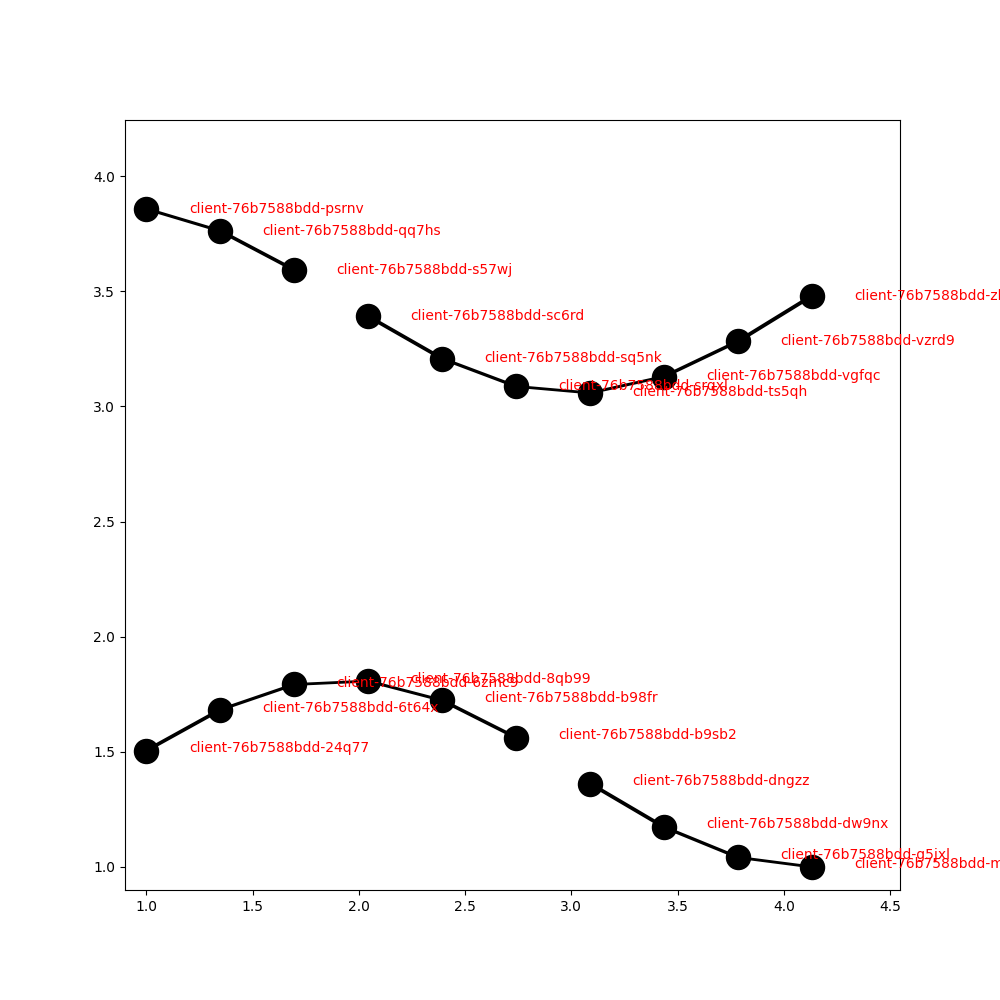
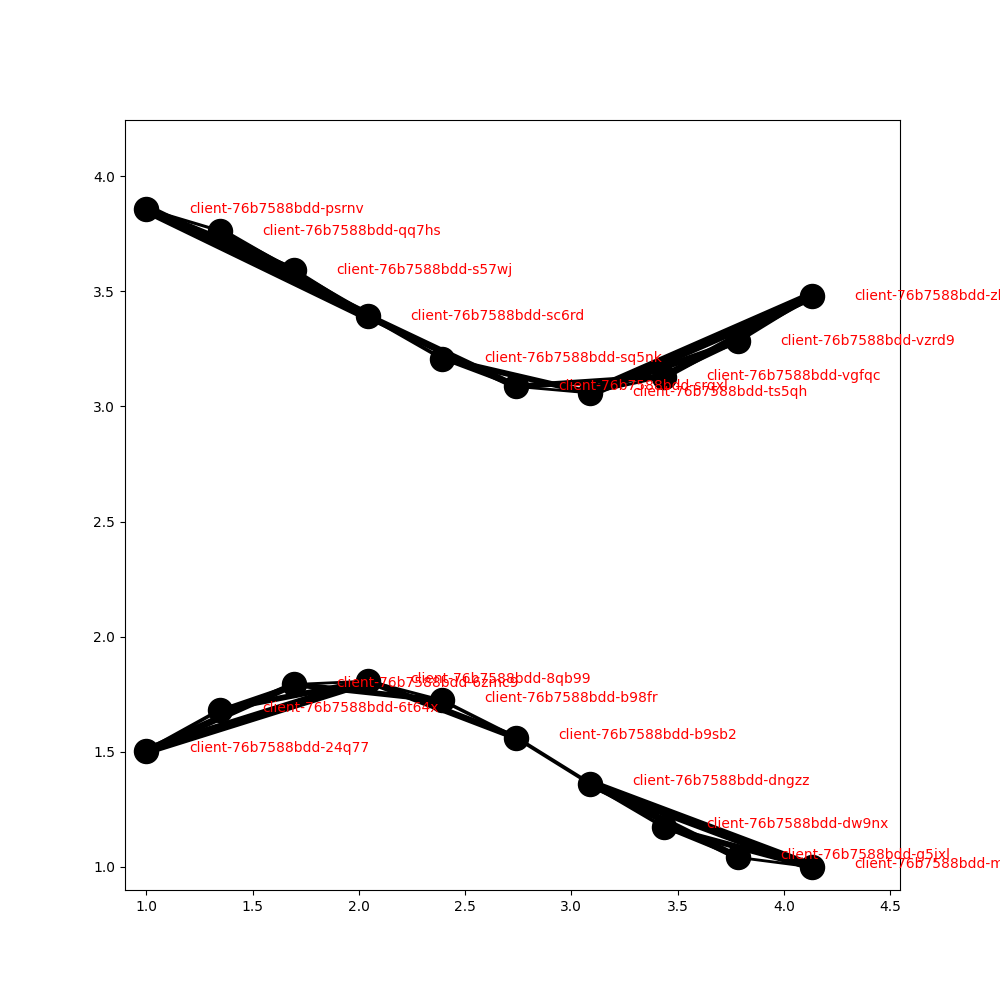
work around, fixing validation graph

diff --git a/fed_relax.py b/fed_relax.py
@@ -145,7 +145,7 @@ def get_pods_attributes(label_selector="app=fedrelax-client", namespace="fed-rel
 
     return attributes
 
-def add_edges_k8s(pod_info,namespace="fed-relax", nrneighbors=1, pos='coords', refdistance=1):
+def add_edges_k8s(pod_info,namespace="fed-relax", nrneighbors=3, pos='coords', refdistance=1):
     """
     Add edges to the graph based on pod attributes retrieved from Kubernetes config maps
     using k-nearest neighbors approach.
@@ -293,13 +293,6 @@ visualize_and_save_graph(G, '/app/init_graph.png')
 # Add edges based on the pod coordinates
 updated_graph = add_edges_k8s(pod_info)
 print("Update graph", updated_graph.nodes())
-# i = 'client-f44c98887-jw7wx'
-# for iter_node in G.nodes(): 
-#    print(G.nodes[iter_node])
-# print("Attributes of graphs after update")
-# print((np.array(updated_graph.nodes[i]["Xtrain"])).shape)
-# print((np.array(updated_graph.nodes[i]["ytrain"])).shape)
-# print((np.array(updated_graph.nodes[i]["coords"])).shape)
 
 # Call the visualization function after adding edges
 visualize_and_save_graph(updated_graph, '/app/after_graph.png')
@@ -346,15 +339,14 @@ pod_to_int = {}
 for i, pod in enumerate(pod_info):
     pod_to_int[i] = pod
 X_val = final_graph.nodes[pod_to_int[0]]["Xval"]
-y_1 = final_graph.nodes[pod_to_int[1]]["model"].predict(X_val)
-y_2 = final_graph.nodes[pod_to_int[2]]["model"].predict(X_val)
+y_1 = final_graph.nodes[pod_to_int[11]]["model"].predict(X_val)
+y_2 = final_graph.nodes[pod_to_int[5]]["model"].predict(X_val)
 
 # Plot the results
-# TODO: Current phase is for testing purposes only, need to update this later
 plt.figure()
 plt.plot(X_val, y_1, color="orange", label="validation data cluster 0", linewidth=2)
 plt.plot(X_val, y_2, color="green", label="validation data cluster 0", linewidth=2)
-plt.plot(final_graph.nodes[pod_to_int[1]]["Xval"], final_graph.nodes[pod_to_int[0]]["yval"], color="blue", label="validation data cluster 0", linewidth=2)
-plt.plot(final_graph.nodes[pod_to_int[2]]["Xval"], final_graph.nodes[pod_to_int[1]]["yval"], color="red", label="val data second cluster", linewidth=2)
+plt.plot(final_graph.nodes[pod_to_int[7]]["Xval"], final_graph.nodes[pod_to_int[0]]["yval"], color="blue", label="validation data cluster 0", linewidth=2)
+plt.plot(final_graph.nodes[pod_to_int[15]]["Xval"], final_graph.nodes[pod_to_int[11]]["yval"], color="red", label="val data second cluster", linewidth=2)
 plt.savefig('/app/validation.png')  # Save the image to a file
 print(f"Validation graph is successfully saved in /app/validation.png")
